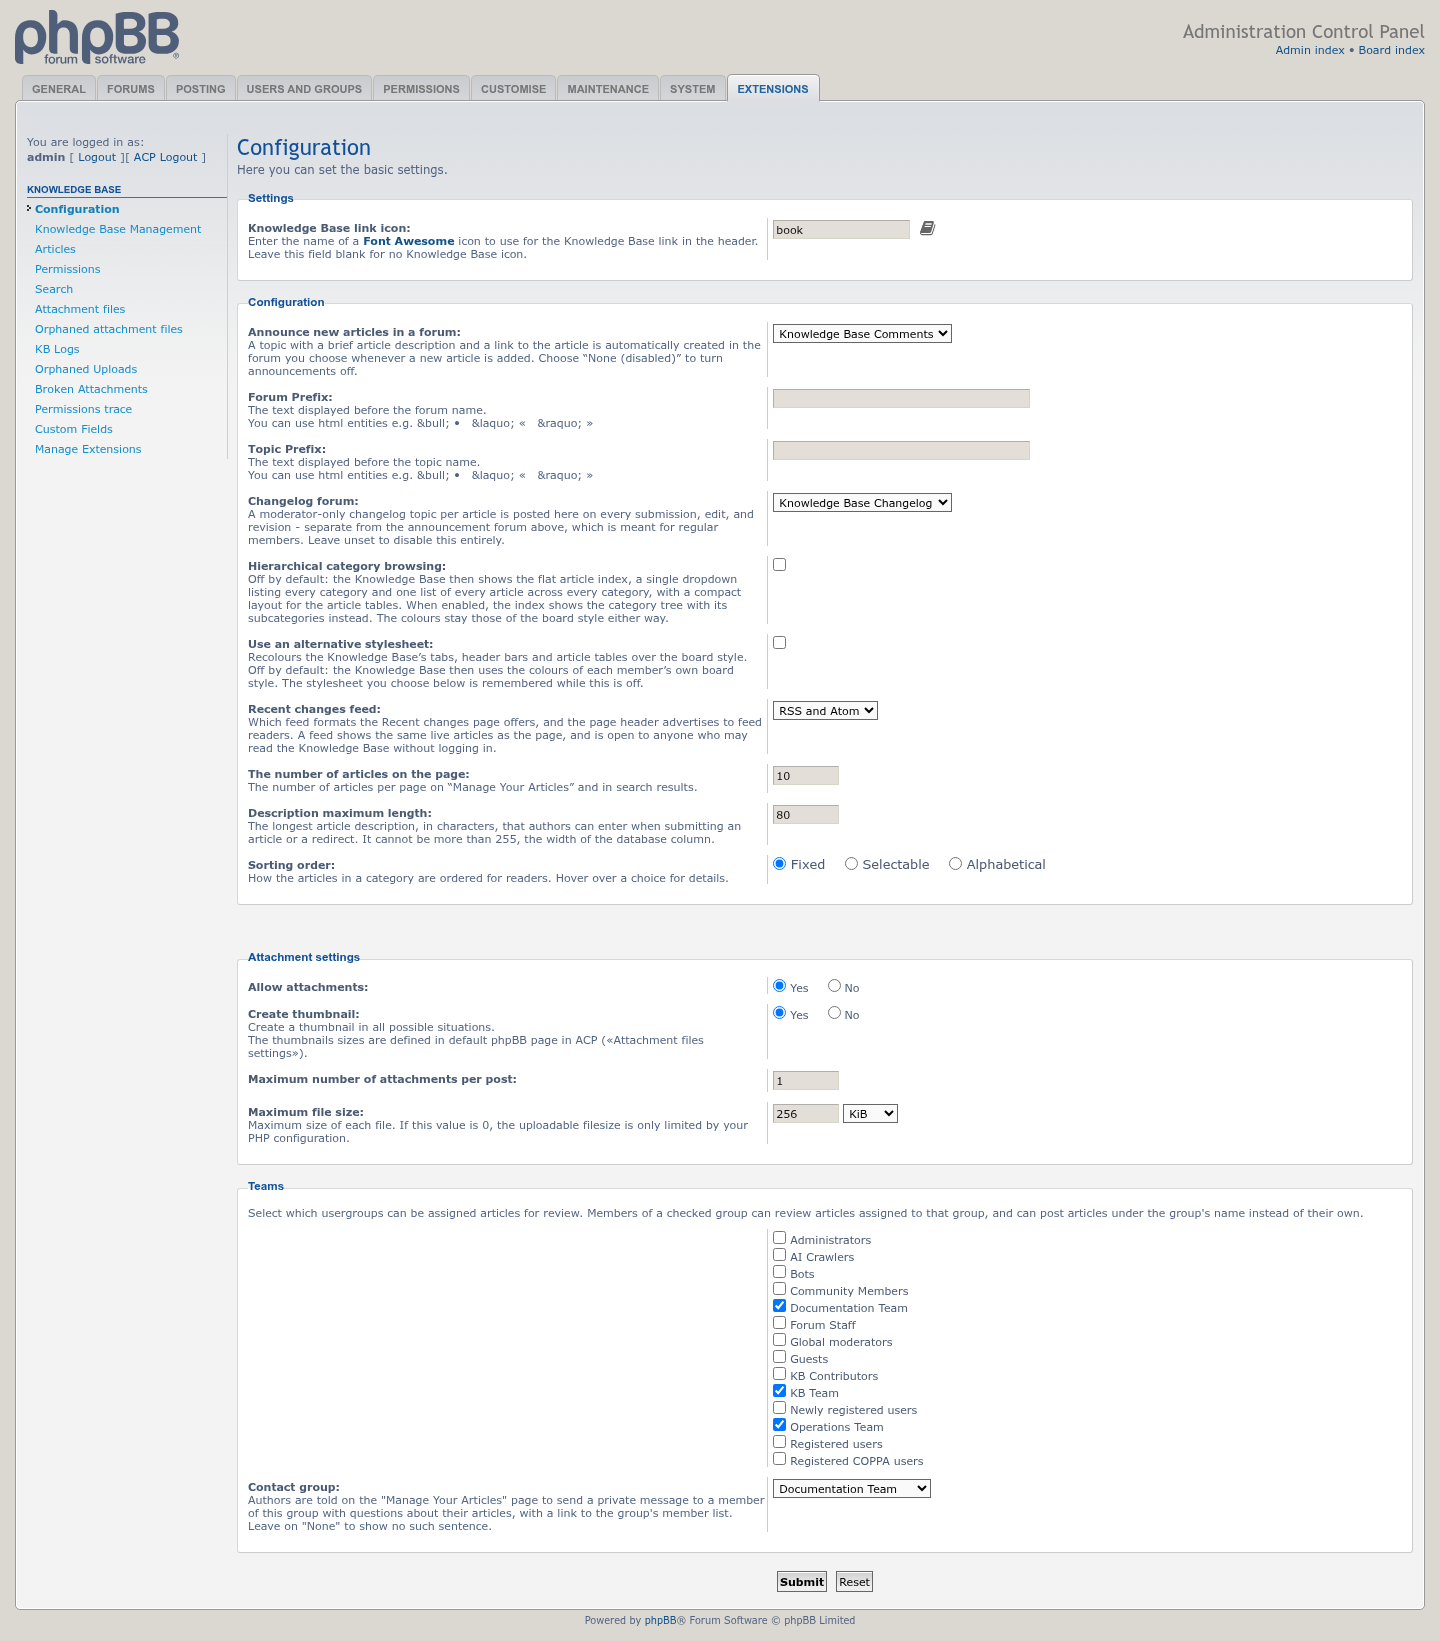
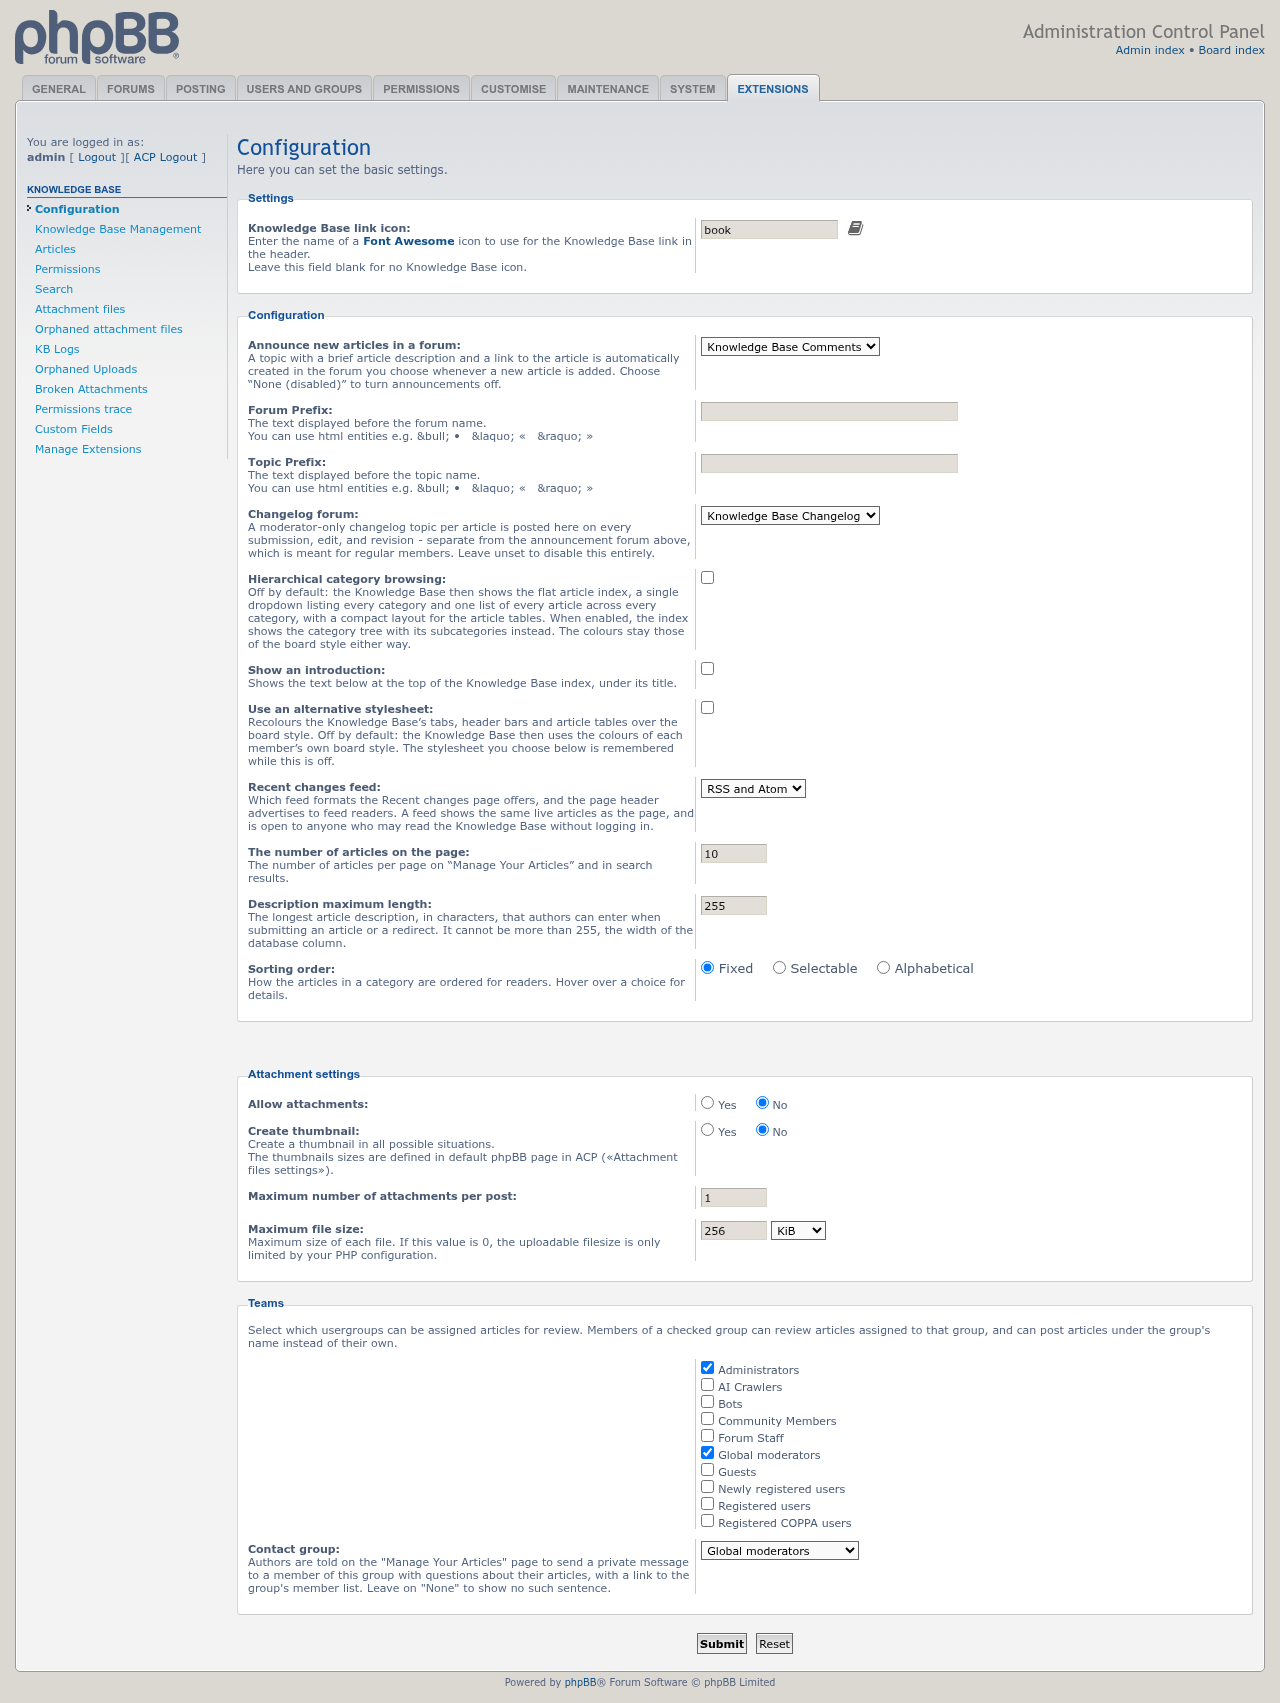
Maintenance pass: form tokens, the approve page, labels and conventions (#16)
* Bring the repository in line with the organization conventions

- composer.json description matches the GitHub description and the
  README's first line.
- The minimum-version message uses the KB_NOT_ENABLEABLE key.
- lint.yml runs php -l and composer validate on PHP 8.1 and 8.5.
- .editorconfig is left out of release archives.
- README: Tests and Lint badges, a Features list (taking in the loose
  author-transfer and status paragraphs), Requirements and Contributing;
  the outdated Automated testing section is gone.

* Close missing form tokens and an approve-page leak found in validation

- ACP category management read the category id as a string and put it
  into SQL, and ran move up/down and sync from plain links and add, edit
  and delete without a form token, so a forged link or page could make
  an administrator run them. The id is now an integer, the links carry a
  link hash, and the forms are checked.
- Moving an article in the ACP and saving Knowledge Base permissions now
  check the form token.
- The approve page showed unapproved articles and pending revisions to
  any registered member; only moderators and the article's team may open
  it now.
- The orphan/extra/lost attachment modes in attachments_info.php ask for
  a_manage_kb like the installed modules, the minimum-version message
  uses positional placeholders, and an unused variable is gone.

Adds CSRF tests for the article move and permission saves, and refusal
[…]

diff --git a/tests/browser/kb_page_sweep.js b/tests/browser/kb_page_sweep.js
@@ -1,7 +1,9 @@
 // Load every main Knowledge Base page and every Knowledge Base ACP module as
 // the seeded administrator, and fail on a server error, a PHP error or
-// phpBB's SQL error page. Read-only: it opens pages and submits nothing but
-// the login forms, so it suits any seed-forum board on any database.
+// phpBB's SQL error page. Then check two refusals: an ACP category move link
+// without its hash, and the approve page for the seeded kb_reader. Read-only:
+// it opens pages and submits nothing but the login forms, so it suits any
+// seeded seed-forum board on any database.
 //
 // KB_TEST_URL is the board's base URL, without a trailing slash. Routes go
 // through app.php, so the board needs no clean-URL rewriting.
@@ -16,6 +18,10 @@ const password = 'KbTest1234!';
 
 // Text that only shows up when a page broke
 const ERROR_MARKERS = ['SQL ERROR', 'Fatal error', 'Parse error', 'Uncaught', 'General Error', '[phpBB Debug]', 'Warning</b>:', 'Notice</b>:', 'Deprecated</b>:'];
+
+// phpBB's English messages for a refused form or page (seed-forum boards are English)
+const FORM_INVALID = 'The submitted form was invalid';
+const NOT_AUTHORISED = 'You are not authorised to access this area';
 
 // phpBB refuses a form submitted within two seconds of it being made
 async function waitForFormAge(page) {
@@ -58,6 +64,13 @@ async function waitForFormAge(page) {
 		return body;
 	}
 
+	// A page that must be refused, showing phpBB's message for that
+	async function expectText(label, url, text, tab = page) {
+		const response = await tab.goto(url, ready);
+		const shown = await tab.locator('body').innerText();
+		results.push({label, status: response ? response.status() : 0, problems: shown.includes(text) ? [] : [`expected "${text}"`]});
+	}
+
 	try {
 		// Board login
 		await page.goto(`${base}/ucp.php?mode=login`, ready);
@@ -95,6 +108,21 @@ async function waitForFormAge(page) {
 		const modules = await page.locator('#menu a[href*="i=-phpbbmodders-knowledgebase-acp-"]').evaluateAll(links => links.map(link => [link.textContent.trim(), link.href]));
 		if (!modules.length) throw new Error('No Knowledge Base modules in the ACP menu');
 		for (const [label, href] of modules) await check(`acp ${label}`, href);
+
+		// Refusals: a category move link without its hash, and the approve
+		// page for a member who is neither a moderator nor on the article's team
+		const manage = '/adm/index.php?i=-phpbbmodders-knowledgebase-acp-manage_module&mode=manage';
+		await expectText('acp move without hash refused', `${base}${manage}&action=move_up&f=1&sid=${await sessionCookie(page)}`, FORM_INVALID);
+		const reader = await browser.newPage();
+		reader.setDefaultTimeout(120000);
+		await reader.route(/\.(css|js|png|gif|jpe?g|svg|ico|woff2?|ttf)(\?|$)/, route => route.abort());
+		await reader.goto(`${base}/ucp.php?mode=login`, ready);
+		await reader.locator('#username').fill('kb_reader');
+		await reader.locator('#password').fill(password);
+		await waitForFormAge(reader);
+		await reader.locator('[name="login"][type="submit"]').click();
+		await reader.waitForURL(url => !url.search.includes('mode=login'), ready);
+		await expectText('approve page refused for kb_reader', `${base}/app.php/knowledgebase/approve?id=${new URL(article).searchParams.get('k')}`, NOT_AUTHORISED, reader);
 	} finally {
 		await browser.close();
 	}

diff --git a/styles/all/template/kb_queue_body.html b/styles/all/template/kb_queue_body.html
@@ -46,7 +46,7 @@
 						{{ S_FORM_TOKEN }}
 						<input type="hidden" name="redirect_queue" value="1">
 						<input type="hidden" name="action" value="assign">
-						<select name="team_id">{{ art_row.TEAM_OPTIONS }}</select>
+						<select name="team_id" aria-label="{{ lang('KB_ASSIGN_TO') }}">{{ art_row.TEAM_OPTIONS }}</select>
 						<button class="button2" type="submit">{{ lang('KB_ASSIGN') }}</button>
 					</form>&nbsp;
 				{% endif %}
@@ -64,7 +64,7 @@
 					<form method="post" action="{{ art_row.S_ACTION }}">
 						{{ S_FORM_TOKEN }}
 						<input type="hidden" name="redirect_queue" value="1">
-						<select name="action">
+						<select name="action" aria-label="{{ lang('KB_QUEUE_ACTION') }}">
 							{% if art_row.S_STATUS_NEW and art_row.S_CAN_REVIEW %}
 								<option value="review">{{ lang('KB_MARK_REVIEWED') }}</option>
 							{% endif %}

diff --git a/styles/all/template/kb_article_body.html b/styles/all/template/kb_article_body.html
@@ -47,12 +47,12 @@
 				<p>{{ lang('LINK_TO_ARTICLE') }}{{ lang('COLON') }} <a class="buttoncopy"
 						data-copytarget="#bbcode">{{ lang('COPY_TO_BUFFER') }}</a></p>
 				<code>{{ U_ARTICLE }}</code>
-				<input value="{{ U_ARTICLE }}" id="bbcode" type="text">
+				<input value="{{ U_ARTICLE }}" id="bbcode" type="text" aria-label="{{ lang('LINK_TO_ARTICLE') }}">
 				<hr>
 				<p>{{ lang('DIRECT_LINK') }}{{ lang('COLON') }} <a class="buttoncopy"
 						data-copytarget="#link">{{ lang('COPY_TO_BUFFER') }}</a></p>
 				<code>{{ U_DIRECT_LINK }}</code>
-				<input value="{{ U_DIRECT_LINK }}" id="link" type="text">
+				<input value="{{ U_DIRECT_LINK }}" id="link" type="text" aria-label="{{ lang('DIRECT_LINK') }}">
 			</div>
 			<ul class="post-buttons">
 				{% if (not S_APPROVED or S_HAS_REVISION) and S_CAN_APPROVE %}

diff --git a/adm/style/acp_knowledgebase_category.html b/adm/style/acp_knowledgebase_category.html
@@ -203,7 +203,7 @@
 			<fieldset class="quick">
 				{{ lang('SELECT_CATEGORY') }}{{ lang('COLON') }}
 				<label>
-					<select name="parent_id"
+					<select name="parent_id" aria-label="{{ lang('SELECT_CATEGORY') }}"
 						onchange="if(this.options[this.selectedIndex].value !== -1){ this.form.submit(); }">{{ CATS_BOX }}
 					</select>
 				</label>
@@ -214,7 +214,7 @@
 		{% endif %}
 		<fieldset class="quick">
 			<input type="hidden" name="action" value="add"/>
-			<label><input type="text" name="category_name" value="" maxlength="255"/></label>
+			<label><input type="text" name="category_name" value="" maxlength="255" aria-label="{{ lang('ADD_CATEGORY') }}"/></label>
 			<input class="button2" name="addcat" type="submit" value="{{ lang('ADD_CATEGORY') }}"/>
 			{{ S_FORM_TOKEN }}
 		</fieldset>

diff --git a/adm/style/acp_knowledgebase_config.html b/adm/style/acp_knowledgebase_config.html
@@ -231,14 +231,15 @@
 			<dd>
 				<input type="number" id="extgroup_filesize" min="0" max="999999999999999" step="any" name="max_filesize"
 					value="{{ EXTGROUP_FILESIZE }}"/>
-				<label><select name="size_select"> {{ S_EXT_GROUP_SIZE_OPTIONS }}</select></label>
+				<label><select name="size_select" aria-label="{{ lang('ATTACH_MAX_FILESIZE') }}"> {{ S_EXT_GROUP_SIZE_OPTIONS }}</select></label>
 			</dd>
 		</dl>
 	</fieldset>
 	<fieldset>
 		<legend>{{ lang('KB_TEAMS') }}</legend>
-		<dl>{{ lang('KB_TEAMS_EXPLAIN') }}</dl>
+		<p>{{ lang('KB_TEAMS_EXPLAIN') }}</p>
 		<dl>
+			<dt>{{ lang('KB_TEAMS') }}{{ lang('COLON') }}</dt>
 			{% for row in loops.team_group %}
 				<dd>
 					<label>

diff --git a/styles/all/template/kb_cat_body.html b/styles/all/template/kb_cat_body.html
@@ -5,9 +5,9 @@
 {% if S_FLAT_LAYOUT %}
 	<div class="panel">
 		<div class="inner">
-			<strong>{{ lang('KB_NARROW_CATEGORY') }}</strong><br>
+			<label for="kb_category_select"><strong>{{ lang('KB_NARROW_CATEGORY') }}</strong></label><br>
 			<form method="get" action="{{ S_ACTION }}">
-				<select name="id" onchange="this.form.submit();">
+				<select name="id" id="kb_category_select" onchange="this.form.submit();">
 					<option value="0">{{ lang('KB_ALL_CATEGORIES') }}</option>
 					{{ CATS_OPTIONS }}
 				</select>

diff --git a/styles/all/template/kb_post_body.html b/styles/all/template/kb_post_body.html
@@ -125,7 +125,7 @@
 						{% endif %}
 					</div>
 					<div id="message-box" class="message-box">
-						<textarea name="message" id="message" rows="15" cols="76" tabindex="4" onselect="storeCaret(this);"
+						<textarea name="message" id="message" rows="15" cols="76" tabindex="4" aria-label="{{ lang('MESSAGE_BODY') }}" onselect="storeCaret(this);"
 							onclick="storeCaret(this);" onkeyup="storeCaret(this);" onfocus="initInsertions();"
 							class="inputbox">{{ MESSAGE }}</textarea>
 					</div>

diff --git a/acp/manage_module.php b/acp/manage_module.php
@@ -75,9 +75,21 @@ class manage_module
 
 		$action = $request->variable('action', '');
 		$update = ($request->is_set_post('update'));
-		$category_id = $request->variable('f', '');
+		$category_id = $request->variable('f', 0);
 		$parent_id = $request->variable('parent_id', 0);
 		$copy_perm_from_id = $request->variable('cat_perm_from', 0);
+
+		// Every change below needs this page's form token (add, edit,
+		// delete) or its link hash (move up/down, sync)
+		add_form_key('kb_acp_manage');
+		if ($update && !check_form_key('kb_acp_manage'))
+		{
+			trigger_error($language->lang('FORM_INVALID') . adm_back_link($this->u_action . '&amp;parent_id=' . $parent_id), E_USER_WARNING);
+		}
+		if (in_array($action, ['move_up', 'move_down', 'sync'], true) && !check_link_hash($request->variable('hash', ''), 'kb_acp_manage'))
+		{
+			trigger_error($language->lang('FORM_INVALID') . adm_back_link($this->u_action . '&amp;parent_id=' . $parent_id), E_USER_WARNING);
+		}
 
 		if ($update)
 		{
@@ -331,11 +343,11 @@ class manage_module
 						'CATEGORY_DESCR' => $row['category_details'],
 						'ARTICLES'       => $row['number_articles'],
 						'U_CATEGORY'     => $this->u_action . '&amp;parent_id=' . $row['category_id'],
-						'U_MOVE_UP'      => $url . '&amp;action=move_up',
-						'U_MOVE_DOWN'    => $url . '&amp;action=move_down',
+						'U_MOVE_UP'      => $url . '&amp;action=move_up&amp;hash=' . generate_link_hash('kb_acp_manage'),
+						'U_MOVE_DOWN'    => $url . '&amp;action=move_down&amp;hash=' . generate_link_hash('kb_acp_manage'),
 						'U_EDIT'         => $url . '&amp;action=edit',
 						'U_DELETE'       => $url . '&amp;action=delete',
-						'U_SYNC'         => $url . '&amp;action=sync',
+						'U_SYNC'         => $url . '&amp;action=sync&amp;hash=' . generate_link_hash('kb_acp_manage'),
 					]
 				);
 			} while ($row = $db->sql_fetchrow($result));

diff --git a/inc/field/kb_single_select_field_type.php b/inc/field/kb_single_select_field_type.php
@@ -64,7 +64,7 @@ class kb_single_select_field_type extends kb_multi_select_field_type
 			$options .= '<option value="' . (int) $value['value_id'] . '"' . $is_selected . '>' . htmlspecialchars($value['value_label']) . '</option>';
 		}
 
-		return $this->wrap_posting_field($field, '<select name="field_values[' . (int) $field['field_id'] . '][]">' . $options . '</select>');
+		return $this->wrap_posting_field($field, '<select name="field_values[' . (int) $field['field_id'] . '][]" id="kb_field_' . (int) $field['field_id'] . '">' . $options . '</select>', 'kb_field_' . (int) $field['field_id']);
 	}
 
 	/**
@@ -73,14 +73,18 @@ class kb_single_select_field_type extends kb_multi_select_field_type
 	 *
 	 * @param array  $field
 	 * @param string $widget
+	 * @param string $label_for Id of the widget's control, when it is a single one
 	 * @return string
 	 */
-	protected function wrap_posting_field(array $field, string $widget): string
+	protected function wrap_posting_field(array $field, string $widget, string $label_for = ''): string
 	{
+		// Only a single control can be the label's target; a group of radio
+		// buttons keeps its own labels
+		$for = $label_for !== '' ? ' for="' . $label_for . '"' : '';
 		$hint = !empty($field['field_required']) ? '<br><span>' . $this->language->lang('KB_FIELD_REQUIRED_HINT') . '</span>' : '';
 
 		return '<dl style="clear: left;">
-			<dt><label>' . htmlspecialchars($field['field_name']) . $this->language->lang('COLON') . '</label>' . $hint . '</dt>
+			<dt><label' . $for . '>' . htmlspecialchars($field['field_name']) . $this->language->lang('COLON') . '</label>' . $hint . '</dt>
 			<dd>' . $widget . '</dd>
 		</dl>';
 	}

diff --git a/tests/kb_single_select_field_test.php b/tests/kb_single_select_field_test.php
@@ -61,7 +61,9 @@ class kb_single_select_field_test extends \PHPUnit\Framework\TestCase
 	{
 		$html = $this->type(kb_single_select_field_type::class)->render_posting_field(self::FIELD, self::VALUES, [5]);
 
-		$this->assertStringContainsString('<select name="field_values[7][]">', $html);
+		// The field name labels the dropdown itself
+		$this->assertStringContainsString('<select name="field_values[7][]" id="kb_field_7">', $html);
+		$this->assertStringContainsString('<label for="kb_field_7">', $html);
 		$this->assertStringContainsString('<option value="0">KB_FIELD_SELECT_PLACEHOLDER</option>', $html);
 		$this->assertStringContainsString('<option value="4">Users</option>', $html);
 		$this->assertStringContainsString('<option value="5" selected="selected">Admins &amp; &lt;i&gt;devs&lt;/i&gt;</option>', $html);
@@ -84,6 +86,15 @@ class kb_single_select_field_test extends \PHPUnit\Framework\TestCase
 
 			$this->assertStringContainsString('KB_FIELD_REQUIRED_HINT', $html);
 		}
+	}
+
+	public function test_radio_buttons_keep_a_label_without_a_target()
+	{
+		// A group of radio buttons has no single control for the field's label to point at
+		$html = $this->type(kb_radio_select_field_type::class)->render_posting_field(self::FIELD, self::VALUES, [5]);
+
+		$this->assertStringContainsString('<dt><label>Audience &lt;b&gt;', $html);
+		$this->assertStringNotContainsString('for="kb_field_', $html);
 	}
 
 	public function test_radio_buttons_offer_none_only_for_an_optional_field()

diff --git a/language/en/install_failed.php b/language/en/install_failed.php
@@ -21,7 +21,7 @@ if (empty($lang) || !is_array($lang))
 }
 
 $lang = array_merge($lang, [
-	'INSTALL_FAILED_VERSION' => '<b>The Knowledge Base extension does not meet the minimum requirements</b><br><br>phpBB minimum version %1s - you are using %2s <br>PHP minimum version %3s - you are using %4s',
+	'KB_NOT_ENABLEABLE' => '<b>The Knowledge Base extension does not meet the minimum requirements</b><br><br>phpBB minimum version %1$s - you are using %2$s <br>PHP minimum version %3$s - you are using %4$s',
 	'INSTALL_FAILED_ORIGINAL_ENABLED' => '<b>The original %1$s extension is still enabled</b><br><br>It uses the same database tables and pages as this Knowledge Base, so both cannot be enabled together. Disable %1$s first (Customise &raquo; Manage extensions), then enable this extension: it takes over the articles, categories, permissions and settings the original created.',
 	'INSTALL_FAILED_KINERITY_ENABLED' => '<b>The %1$s extension is still enabled</b><br><br>It uses the same database table names and pages as this Knowledge Base, so both cannot be enabled together. Disable %1$s first (Customise &raquo; Manage extensions), without deleting its data, then enable this extension: it imports the categories, articles and permissions %1$s created.',
 ]);

diff --git a/tests/kb_acp_csrf_test.php b/tests/kb_acp_csrf_test.php
@@ -96,7 +96,28 @@ class kb_acp_csrf_test extends \PHPUnit\Framework\TestCase
 			['search_index', ['id', 'index'], [], ['action' => 'create', 'hash' => 'kb_acp_search_create_valid'], ''],
 			['search_index', ['id', 'index'], ['continue'], ['action' => 'create'], 'probe,create,1'],
 			['search_index', ['id', 'index'], ['cancel'], [], 'probe,create,1'],
+			['get_mask', ['setting', 'group', [2], [1], false], ['submit'], [], ''],
+			['get_mask', ['setting', 'group', [2], [1], false], [], ['apply_all_permissions' => true], ''],
 		];
+	}
+
+	public function test_forged_article_move_is_rejected_before_moving()
+	{
+		$this->request_values(['submit'], ['aid' => 5, 'to_id' => 2]);
+		$kb = $this->createMock(\phpbbmodders\knowledgebase\inc\functions_kb::class);
+		$kb->method('get_kb_article_info')->willReturn(['article_title' => 'A', 'article_category_id' => 1, 'display_order' => 1]);
+		$kb->expects($this->never())->method('kb_move_article');
+		$this->inject('kb', $kb);
+		try
+		{
+			$this->controller->move_article();
+		}
+		catch (\RuntimeException $error)
+		{
+			$this->assertSame('FORM_INVALID', $error->getMessage());
+			return;
+		}
+		$this->fail('A forged article move must be rejected');
 	}
 
 	/** @dataProvider batch_keys */
